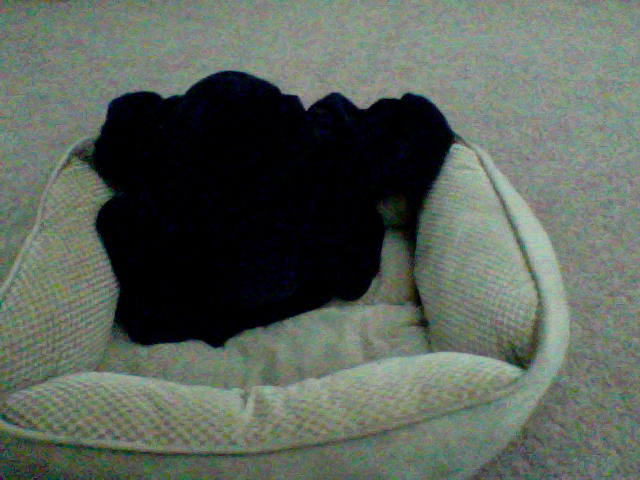
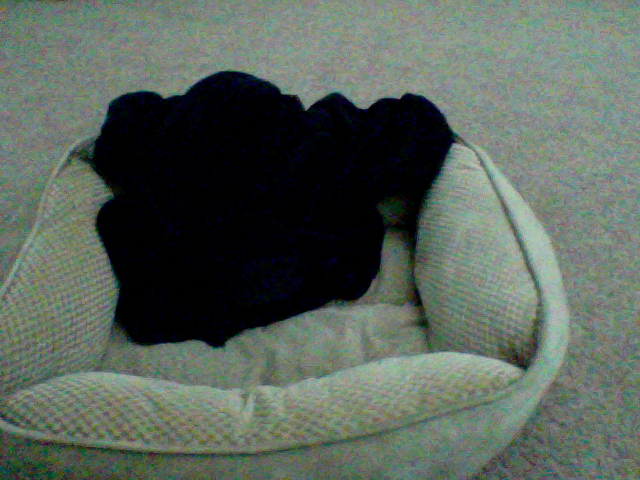
update at Month05Day08Time09:11

Changed region(s): [[0.0, 0.0, 1.0, 1.0], [0.4375, 0.5625, 0.4688, 0.5938], [0.4062, 0.5938, 0.4375, 0.625]]

diff --git a/index.html b/index.html
@@ -39,7 +39,7 @@
       <!-- Example row of columns -->
       <div class="row">
         <div class="col-md-4">
-	<p>This picture was updated at Month05Day08Time09:10</p>
+	<p>This picture was updated at Month05Day08Time09:11</p>
 		<img src="5_pic.png" />
         </div>
       </div>
